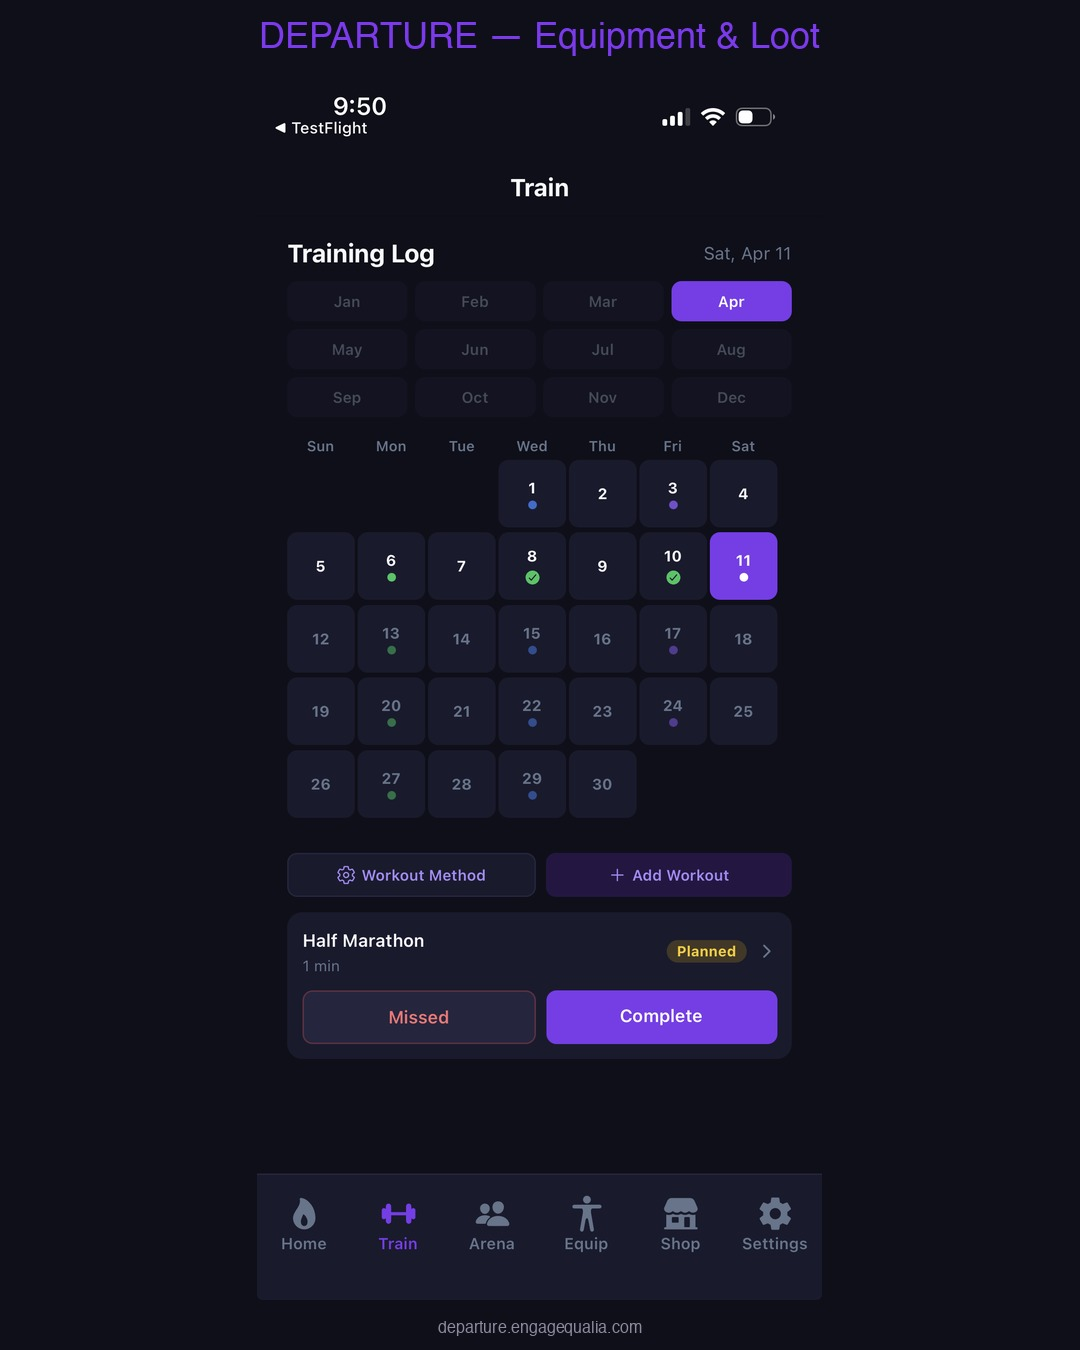
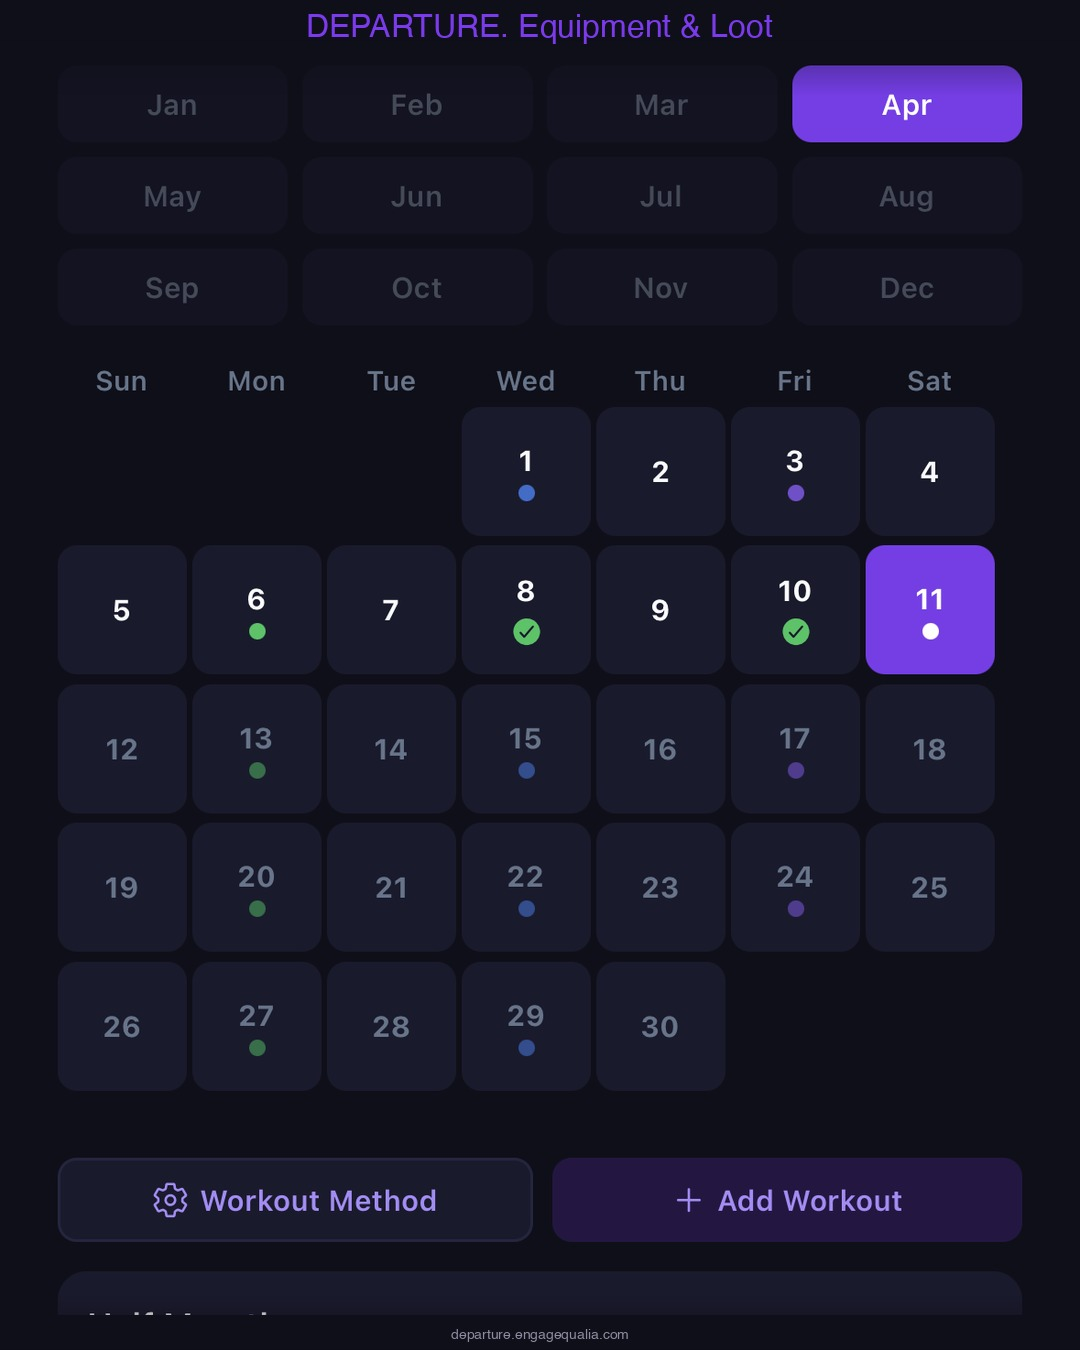
Fix screenshot images (fill frame), broader search queries, min 100 followers
- Screenshots now fill the entire 1080x1350 frame (crop status/nav bars, scale to width)
- Dark gradient overlays for title and URL readability
- 15 search queries (was 8), run 4 per cycle
- Minimum 100 follower threshold for engagement targets
- Exclude DepartureFit from all queries + code-level filter

diff --git a/scripts/generate-social-images.py b/scripts/generate-social-images.py
@@ -251,55 +251,85 @@ def create_monster_card(slug, data, output_path):
     print(f"  Created: {os.path.basename(output_path)}")
 
 def create_screenshot_post(screenshot_name, output_name, title=None, subtitle=None):
-    """Create a branded screenshot post — screenshot fills most of the frame."""
+    """Create a branded screenshot post — crop and fill the frame, minimal blank space."""
     img = Image.new("RGB", (W, H), BG_COLOR)
     draw = ImageDraw.Draw(img)
 
-    font_brand = get_font(36)
-    font_sub = get_font(22)
-    font_url = get_font(16)
+    font_brand = get_font(32)
+    font_url = get_font(14)
 
-    # Reserve space for branding
-    top_margin = 75 if title else 20
-    bottom_margin = 50
-    available_h = H - top_margin - bottom_margin
+    top_margin = 55
+    bottom_margin = 35
 
-    # Load screenshot and scale to fill the available space
     ss_path = os.path.join(SCREENSHOTS_DIR, screenshot_name)
     if os.path.exists(ss_path):
         ss = Image.open(ss_path).convert("RGBA")
         sw, sh = ss.size
 
-        # Scale to fit width (with small padding) or height, whichever is constraining
-        max_w = W - 60  # 30px padding each side
-        scale_w = max_w / sw
-        scale_h = available_h / sh
-        scale = min(scale_w, scale_h)
+        # Crop the screenshot to remove status bar (top ~120px) and nav bar (bottom ~180px)
+        crop_top = int(sh * 0.05)   # Skip status bar
+        crop_bottom = int(sh * 0.07) # Skip bottom nav
+        ss = ss.crop((0, crop_top, sw, sh - crop_bottom))
+        sw, sh = ss.size
 
-        new_w = int(sw * scale)
+        # Scale to FILL the width, then crop height to fit
+        available_h = H - top_margin - bottom_margin
+        scale = W / sw  # Fill width completely
+        new_w = W
         new_h = int(sh * scale)
+
         ss = ss.resize((new_w, new_h), Image.LANCZOS)
 
-        # Center horizontally, position below title
-        x = (W - new_w) // 2
-        y = top_margin + (available_h - new_h) // 2
-        img.paste(ss, (x, y), ss)
+        # If taller than available space, crop from center
+        if new_h > available_h:
+            crop_y = (new_h - available_h) // 3  # Bias toward top (show the good stuff)
+            ss = ss.crop((0, crop_y, new_w, crop_y + available_h))
+
+        # Flatten alpha onto dark background
+        bg_layer = Image.new("RGB", ss.size, BG_COLOR)
+        if ss.mode == "RGBA":
+            bg_layer.paste(ss, (0, 0), ss)
+        else:
+            bg_layer.paste(ss, (0, 0))
+
+        img.paste(bg_layer, (0, top_margin))
         draw = ImageDraw.Draw(img)
 
-    # Title — compact at top
+    # Title overlay at top with dark gradient background
     if title:
-        title_text = f"{title}"
+        # Dark gradient at top for text readability
+        for y in range(top_margin + 40):
+            alpha = max(0, 1.0 - y / (top_margin + 40))
+            for x in range(W):
+                r, g, b = img.getpixel((x, y))
+                r = int(r * (1 - alpha * 0.8) + BG_COLOR[0] * alpha * 0.8)
+                g = int(g * (1 - alpha * 0.8) + BG_COLOR[1] * alpha * 0.8)
+                b = int(b * (1 - alpha * 0.8) + BG_COLOR[2] * alpha * 0.8)
+                img.putpixel((x, y), (r, g, b))
+        draw = ImageDraw.Draw(img)
+
+        title_text = title
         if subtitle:
-            title_text = f"{title} — {subtitle}"
+            title_text = f"{title}. {subtitle}"
         bbox = draw.textbbox((0, 0), title_text, font=font_brand)
         tw = bbox[2] - bbox[0]
-        draw.text(((W - tw) // 2, 20), title_text, fill=PRIMARY, font=font_brand)
+        draw.text(((W - tw) // 2, 12), title_text, fill=PRIMARY, font=font_brand)
 
-    # Bottom URL
+    # Bottom dark gradient + URL
+    for y in range(H - bottom_margin - 20, H):
+        alpha = min(1.0, (y - (H - bottom_margin - 20)) / (bottom_margin + 20))
+        for x in range(W):
+            r, g, b = img.getpixel((x, y))
+            r = int(r * (1 - alpha * 0.8) + BG_COLOR[0] * alpha * 0.8)
+            g = int(g * (1 - alpha * 0.8) + BG_COLOR[1] * alpha * 0.8)
+            b = int(b * (1 - alpha * 0.8) + BG_COLOR[2] * alpha * 0.8)
+            img.putpixel((x, y), (r, g, b))
+    draw = ImageDraw.Draw(img)
+
     url = "departure.engagequalia.com"
     bbox = draw.textbbox((0, 0), url, font=font_url)
     uw = bbox[2] - bbox[0]
-    draw.text(((W - uw) // 2, H - 30), url, fill=TEXT_MUTED, font=font_url)
+    draw.text(((W - uw) // 2, H - 22), url, fill=TEXT_MUTED, font=font_url)
 
     output_path = os.path.join(SOCIAL_DIR, output_name)
     img.save(output_path, "JPEG", quality=92)
